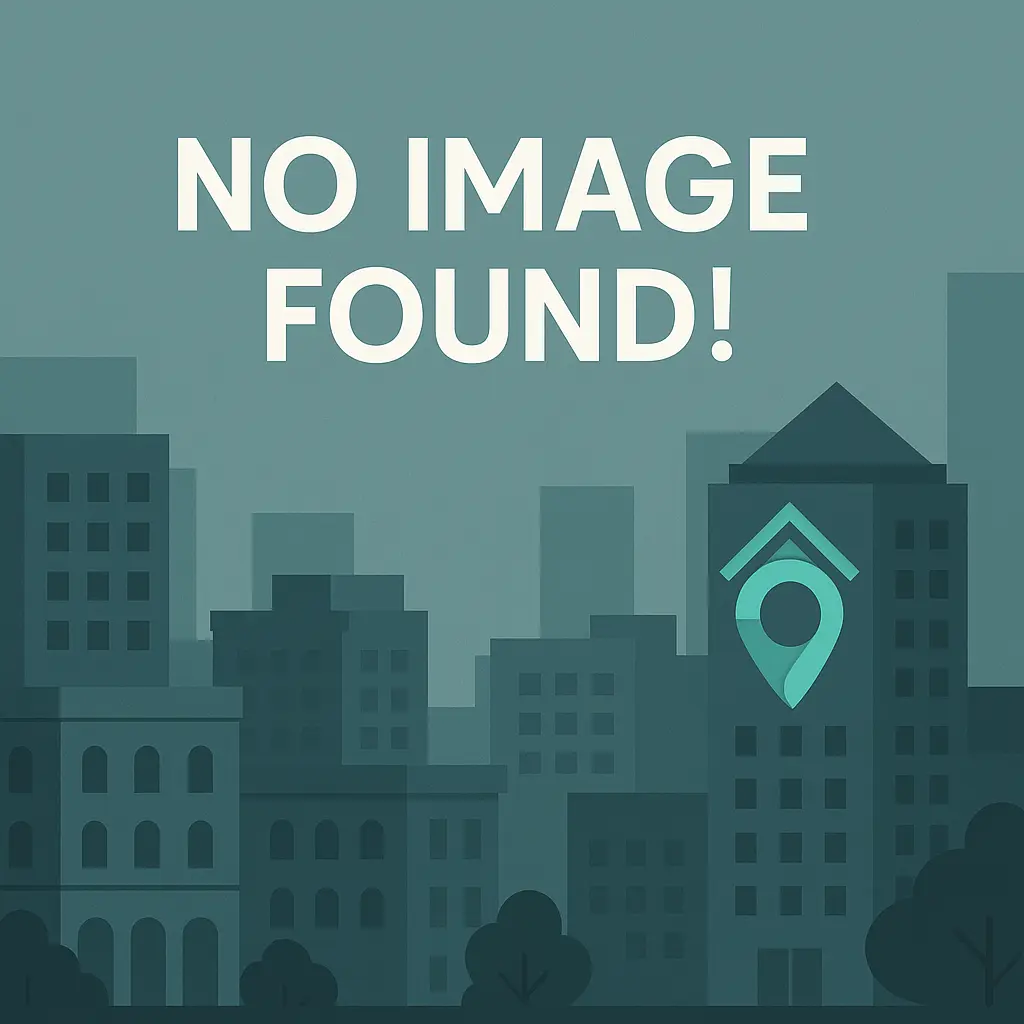
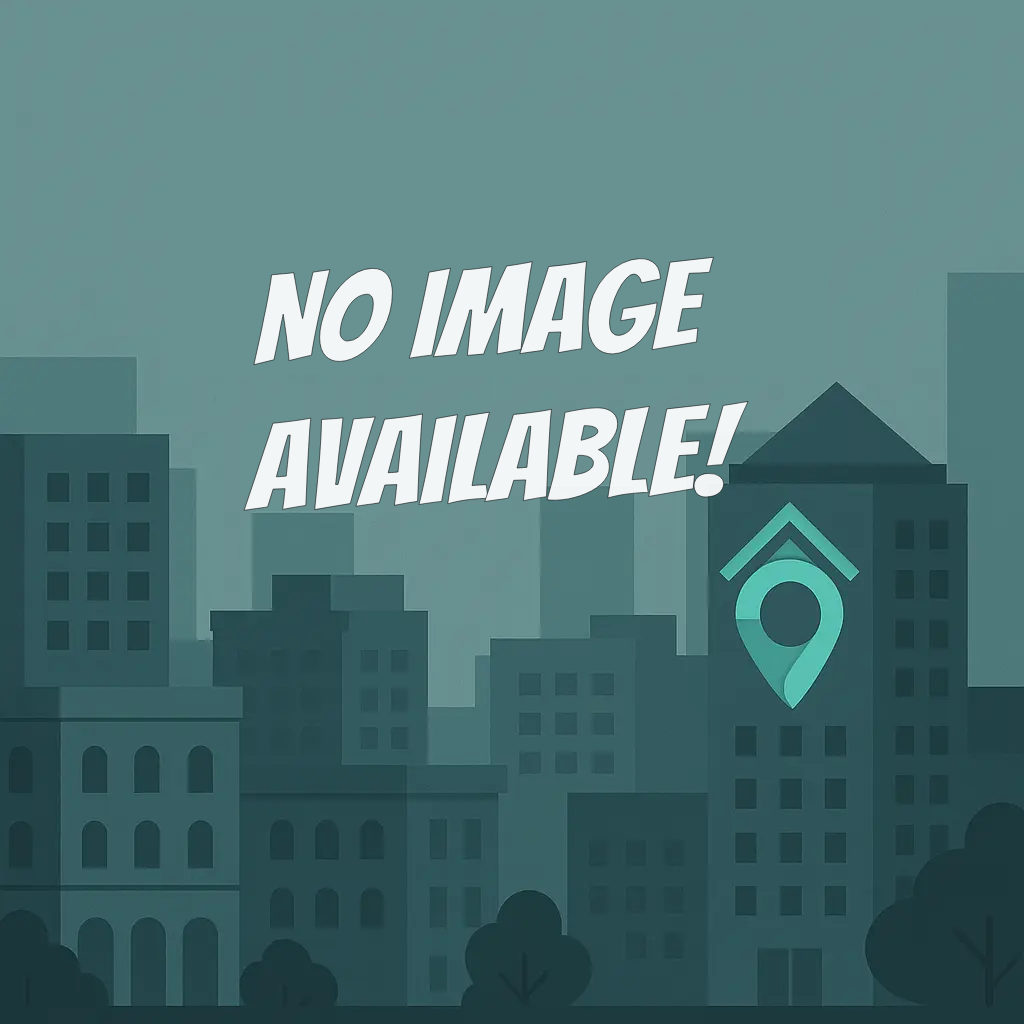
fix: no image found

Changed region(s): [[0.1562, 0.125, 0.8125, 0.5]]

diff --git a/app/components/LeftPanel/LeftDrawer.tsx b/app/components/LeftPanel/LeftDrawer.tsx
@@ -7,6 +7,7 @@ import {
   toggleDrawer,
   setDrawerDimensions,
   closeDrawer,
+  openDrawer,
 } from '@/app/store/slices/drawerSlice';
 import { useAppSelector } from '@/app/store/store';
 import useWindowSize from '@/app/hooks/useWindowSize';
@@ -30,7 +31,7 @@ const LeftDrawer: React.FC = () => {
   const { isOpen, placement, width, height, isExpanded } = useAppSelector(
     (state) => state.drawer
   );
-  console.log('🚀 ~ isExpanded:', isExpanded);
+
   const placeDetails = useAppSelector((state) => state.search.placeDetails);
   const isVisible = useAppSelector((state) => state.ui.isTopPanelVisible);
   const windowSize = useWindowSize();
@@ -79,7 +80,7 @@ const LeftDrawer: React.FC = () => {
 
   useEffect(() => {
     if (placeDetails) {
-      dispatch(toggleDrawer());
+      dispatch(openDrawer());
       if (isMobile) {
         dispatch(
           setDrawerDimensions({
@@ -118,7 +119,6 @@ const LeftDrawer: React.FC = () => {
   }, [isMobile, isExpanded, dispatch]);
 
   const toggleMinimize = useCallback(() => {
-    console.log(isMobile);
     if (isMobile && isOpen) {
       dispatch(closeDrawer());
     }
@@ -143,12 +143,12 @@ const LeftDrawer: React.FC = () => {
 
   // Mobile minimize button (only visible when expanded on mobile)
   const mobileMinimizeButton = useMemo(() => {
-    if (!isMobile && !isOpen) return null;
+    if (!isMobile || !isOpen) return null;
 
     return (
       <button
         onClick={toggleMinimize}
-        className='absolute top-0 right-4 z-10 p-2 bg-white '
+        className='absolute top-0 right-2 z-10 p-1'
         aria-label='Minimize drawer'
       >
         <TbMinimize className='text-xl text-gray-600 hover:text-green-600' />
@@ -208,7 +208,7 @@ const LeftDrawer: React.FC = () => {
     return (
       <motion.button
         onClick={handleToggle}
-        className='absolute bottom-0 left-0 right-0 flex justify-center p-2 bg-white'
+        className='absolute bottom-0 left-0 right-0 flex justify-center p-3 bg-white'
         whileHover={{ scale: 1.05 }}
         whileTap={{ scale: 0.95 }}
       >

diff --git a/app/components/LeftPanel/DrawerContent/components/ImageCarousel.tsx b/app/components/LeftPanel/DrawerContent/components/ImageCarousel.tsx
@@ -11,6 +11,7 @@ interface ImageCarouselProps {
 
 const ImageCarousel: React.FC<ImageCarouselProps> = ({ images }) => {
   const { imageUrls, isLoading, error } = useImageUrls(images);
+
   const settings = {
     dots: true,
     infinite: false,
@@ -46,29 +47,25 @@ const ImageCarousel: React.FC<ImageCarouselProps> = ({ images }) => {
 
   if (isLoading) {
     return (
-      <div className='w-full aspect-[4/3] bg-gray-100 animate-pulse rounded-lg' />
-    );
-  }
-
-  console.log(imageUrls?.length === 0);
-  console.log(imageUrls);
-
-  if (error || imageUrls?.length === 0) {
-    return (
-      <div className='relative w-full aspect-[4/3] rounded-lg overflow-hidden'>
-        <AntImage
-          src='/images/no_image_found.webp'
-          alt='No image found'
-          className='object-cover opacity-80 filter grayscale blur-[1px]'
-          preview={false}
-        />
-        <h3 className='absolute top-1/2 left-1/2 -translate-x-1/2 -translate-y-1/2 text-white font-semibold'>
-          No Image Found!
-        </h3>
+      <div className='w-full aspect-[4/3] bg-gray-100 animate-pulse rounded-lg flex items-center justify-center'>
+        <span className='text-gray-500'>Loading...</span>
       </div>
     );
   }
 
+  // After loading, check for errors or empty images
+  if (!isLoading && (error || !imageUrls || imageUrls.length === 0)) {
+    return (
+      <div className='relative w-full aspect-[4/3] overflow-hidden'>
+        <AntImage
+          src='/images/no_image_found.webp'
+          alt='No image found'
+          className='object-cover object-bottom h-full w-full opacity-80 filter' // Anchor to bottom
+          preview={false}
+        />
+      </div>
+    );
+  }
   return (
     <div className='relative w-full h-[300px]'>
       <style jsx global>{`

diff --git a/app/components/Layout/MainContent.tsx b/app/components/Layout/MainContent.tsx
@@ -3,7 +3,7 @@ import SearchBar from '../search/components/SearchBar/SearchBar';
 import NearbyCategories from '../search/components/NearbyCategories/NearbyCategories';
 import MobileAppLink from '../common/TopPanel/MobileAppLink';
 import dynamic from 'next/dynamic';
-import { useState, useEffect } from 'react';
+// import { useState, useEffect } from 'react';
 
 const MapContainer = dynamic(() => import('../map/MapContainer/MapContainer'), {
   ssr: false,
@@ -13,16 +13,16 @@ const MainContent = () => {
   const isVisible = useAppSelector((state) => state.ui.isTopPanelVisible);
   const isMapLoaded = useAppSelector((state) => state.map.isMapLoaded);
 
-  const [currentFact, setCurrentFact] = useState(0);
-  console.log('🚀 ~ MainContent ~ currentFact:', currentFact);
+  // const [currentFact, setCurrentFact] = useState(0);
+  // console.log('🚀 ~ MainContent ~ currentFact:', currentFact);
 
-  // Rotate fun facts every 3 seconds
-  useEffect(() => {
-    const interval = setInterval(() => {
-      setCurrentFact((prev) => (prev + 1) % 5); // 5 is the length of funFacts array
-    }, 3000);
-    return () => clearInterval(interval);
-  }, []);
+  // // Rotate fun facts every 3 seconds
+  // useEffect(() => {
+  //   const interval = setInterval(() => {
+  //     setCurrentFact((prev) => (prev + 1) % 5); // 5 is the length of funFacts array
+  //   }, 3000);
+  //   return () => clearInterval(interval);
+  // }, []);
 
   return (
     <main className='relative w-full h-[100dvh] overflow-hidden'>

diff --git a/app/api/place/[uCode]/route.ts b/app/api/place/[uCode]/route.ts
@@ -1,11 +1,11 @@
-import { NextResponse } from "next/server";
-import { NextRequest } from "next/server";
+import { NextResponse } from 'next/server';
+import { NextRequest } from 'next/server';
 
 export async function GET(
   request: NextRequest,
   { params }: { params: { uCode: string } }
 ) {
-  console.log("🚀 ~ request:", request.nextUrl.searchParams);
+  console.log('🚀 ~ request:', request.nextUrl.searchParams);
   const { uCode } = params;
 
   try {
@@ -25,9 +25,9 @@ export async function GET(
     const data = await response.json();
     return NextResponse.json(data);
   } catch (error) {
-    console.error("Error fetching place details:", error);
+    console.error('Error fetching place details:', error);
     return NextResponse.json(
-      { error: "Failed to fetch place details" },
+      { error: 'Failed to fetch place details' },
       { status: 500 }
     );
   }

diff --git a/app/hooks/useImageUrls.ts b/app/hooks/useImageUrls.ts
@@ -32,15 +32,17 @@ export const useImageUrls = (images: ImageData[]) => {
           err instanceof Error ? err.message : 'Failed to fetch image URLs'
         );
       } finally {
-        setIsLoading(false);
+        setIsLoading(false); // Always set loading to false
       }
     };
 
     if (images?.length) {
       fetchImageUrls();
+    } else {
+      setIsLoading(false); // Fix: Handle empty images immediately
+      setImageUrls([]); // Clear URLs if no images provided
     }
 
-    // Refresh URLs every 45 minutes to prevent expiration
     const refreshInterval = setInterval(() => {
       if (images?.length) {
         fetchImageUrls();

diff --git a/app/store/slices/drawerSlice.ts b/app/store/slices/drawerSlice.ts
@@ -21,6 +21,9 @@ const drawerSlice = createSlice({
   name: 'drawer',
   initialState,
   reducers: {
+    openDrawer: (state) => {
+      state.isOpen = true;
+    },
     toggleDrawer: (state) => {
       state.isOpen = !state.isOpen;
     },
@@ -63,6 +66,7 @@ const drawerSlice = createSlice({
 export const {
   toggleDrawer,
   closeDrawer,
+  openDrawer,
   setDrawerDimensions,
   toggleExpand,
   setDrawerWidth,
